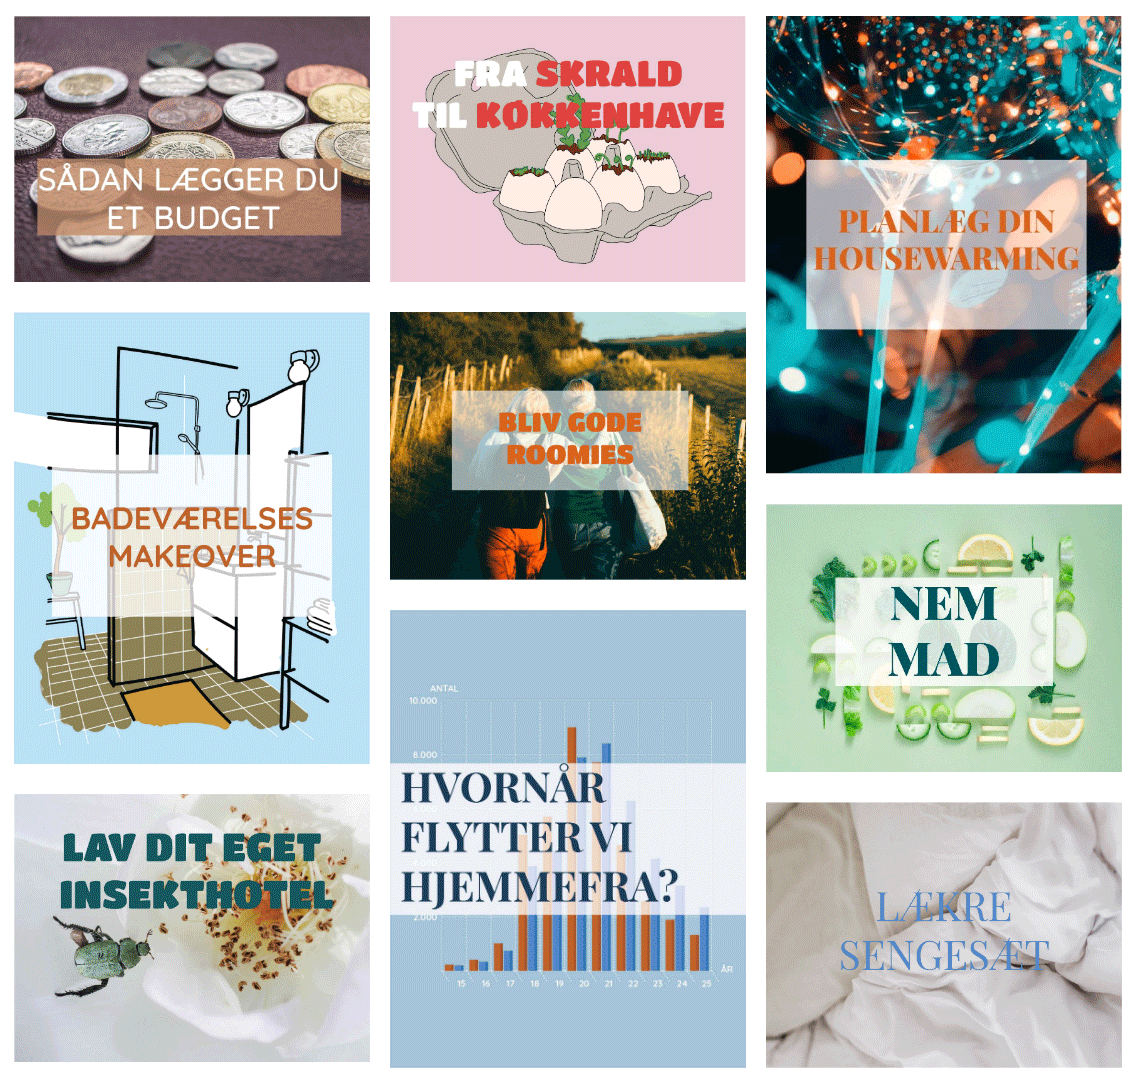
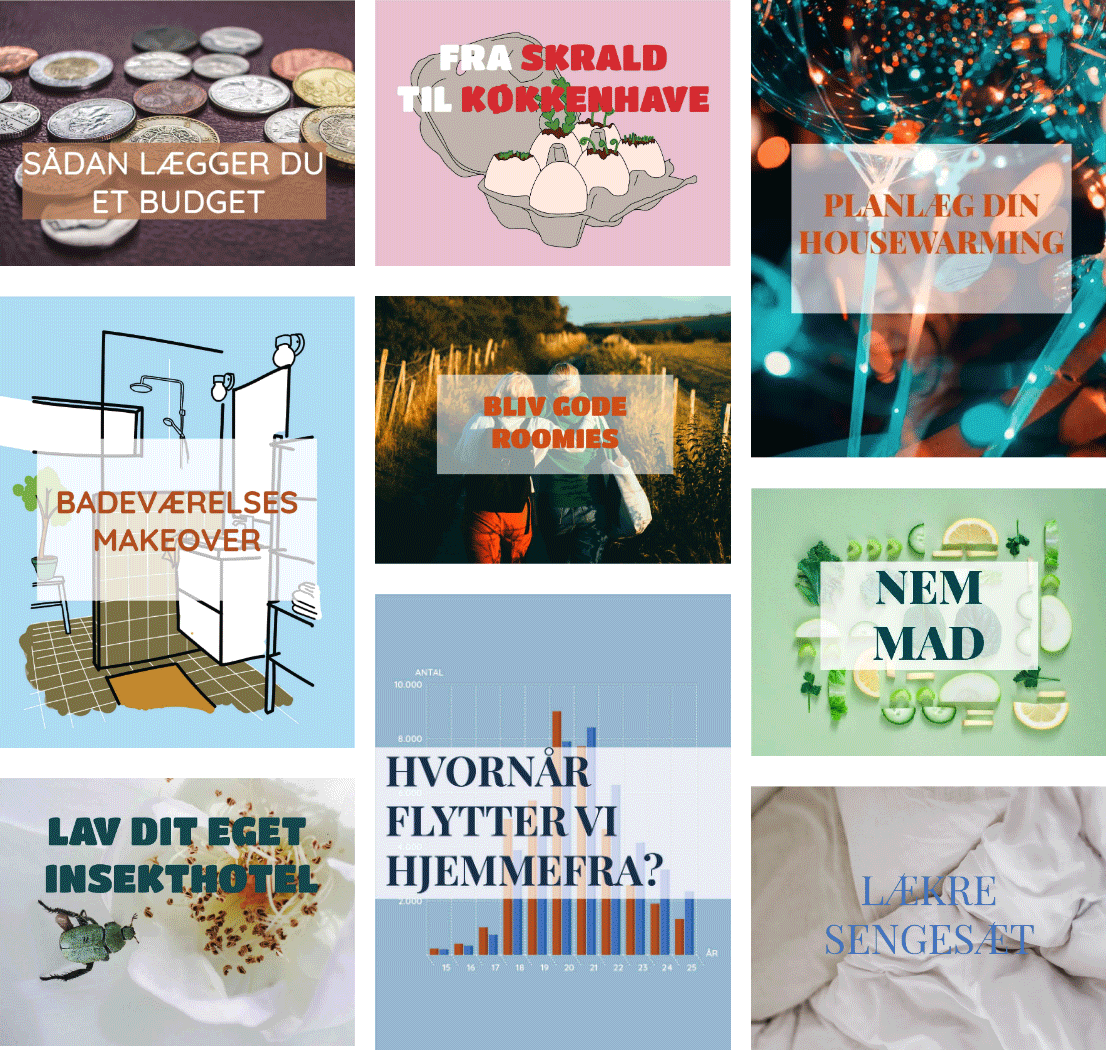
Oprettelse af infografik

diff --git a/pages/flyttekassen.html b/pages/flyttekassen.html
@@ -47,14 +47,8 @@
 			<h2 class="text-center skub">Flyttekassen</h2>
 			<img src="../images/flyttekassen/budget.png" class="skub" alt="hjemmeside">
 			<h4 class="skub">Læring</h4>
-			<p class="skub">Flyttekassen blev udviklet som et eksamensprojekt, i en gruppe, på 2. semester. Her kulminerede al min viden fra 1 og 2 semester. <br> Flyttekassen er en hjemmeside designet til at hjælpe unge mennesker med at flytte hjemmefra. Hjemmesiden indholder videoer, illustrationer, tekst og vejledning, som på bedst vis kan vise en nybegynder, hvordan kan alt fra at vasketøj til at indrette sit badeværelse på bedst vist. Nederst på siden kan man finde en fyldesgørende rapport, samt opgavebeskrivelsen. </p>
-			
-			<h4 class="skub">Design Thinking</h4>
-			<p class="skub">Et meget vigtigt led i vores proces var Design Thinking. Her blev brugerens behov og indsigt undersøgt og vi fik idégeneret en masse ideer og løsninger. Jeg har taget et udsnit fra vores rapport med.
-			</p> <br>
-			<p>
-			I The Stanford Model er empathy det første skridt. Indledningsvis undersøgte vi brugernes behov ved at lave et spørgeskema samt interviewe brugere inden for vores målgruppe. 63 personer svarede på vores spørgeskema i Google Forms, hvoraf 40 var kvinder og 23 var mænd. Størstedelen af de adspurgte var i alderen 21-25 år (52,4%) og 16-20 år (23,8%). Dette gav os indblik i vores mulige brugeres følelser, tanker, oplevelser, og hvad de sagde omkring det at flytte hjemmefra. 75% af de adspurgte ville gerne bruge en hjemmeside med tips og tricks til deres næste eller første flytning, mens de resterende 25% svarede “ved ikke”. Ud fra interviewene analyserede vi os frem til nøgleord og sætninger, som udgjorde vores empathy map, og som vi senere hen fandt insights og needs ud fra.
-			</p>
+			<p class="skub">Flyttekassen blev udviklet som et eksamensprojekt, i en gruppe, på 2. semester. Her kulminerede al min viden fra 1 og 2 semester. <br> Flyttekassen er en hjemmeside designet til at hjælpe unge mennesker med at flytte hjemmefra. Hjemmesiden indholder videoer, illustrationer, infografik, tekst og vejledning, som på bedst vis kan vise en nybegynder, hvordan kan alt fra at vasketøj til at indrette sit badeværelse på bedst vist. </p>
+			<img src="../images/flyttekassen/flyttekasse_illustration.png" alt="Illustration, humor, begravet">
 			<!--Knapper-->
 			<div class="knap skub2 d-none d-sm-block d-sm-none d-md-block">
 				<a href="http://juliesonne.dk/flyttekassen-version-one" target="_blank">Website</a>

diff --git a/index.html b/index.html
@@ -171,23 +171,23 @@
 				<p>Byg en app</p>
 			</div>
 		</div>
-		<!--<div class="col-11 col-md-6 col-lg-6 projektBilleder">
+		<div class="col-11 col-md-6 col-lg-6 projektBilleder">
   			<div class="content">
-    			<a href="pages/illustrator.html">
-      				<div class="content-overlay d-none d-sm-block d-sm-none d-md-block"></div>-->
-						<!--<img src="images/takeoff/takeoff.jpg" alt="Takeoff - billede fra video">-->
-      				<!--<div class="content-details fadeIn-top">
-        				<h3 class="d-none d-sm-block d-sm-none d-md-block">Illustrator</h3>
-        				<p class="d-none d-sm-block d-sm-none d-md-block">Små projekter fra Illustrator</p>
+    			<a href="pages/infografik.html">
+      				<div class="content-overlay d-none d-sm-block d-sm-none d-md-block"></div>
+						<img src="images/infografik/info2.gif" alt="infografik">
+      				<div class="content-details fadeIn-top">
+        				<h3 class="d-none d-sm-block d-sm-none d-md-block">Infografik</h3>
+        				<p class="d-none d-sm-block d-sm-none d-md-block">Lorem ipsum dolor sit amet.</p>
       				</div>
     			</a>
-  			</div>-->
+  			</div>
 			<!--Indhold small-->
-			<!--<div class="d-block d-sm-none d-none d-sm-block d-md-none skub">
-				<h4>Illustrator</h4>
-				<p>Små projekter fra Illustrator</p>
+			<div class="d-block d-sm-none d-none d-sm-block d-md-none skub">
+				<h4>Infografik</h4>
+				<p>Lorem ipsum dolor sit amet.</p>
 			</div>
-		</div>-->
+		</div>
 	</div>
 	<!--Container slut-->
 	</div>

diff --git a/pages/infografik.html b/pages/infografik.html
@@ -44,26 +44,13 @@
 	<!--Content-->
 	<div class="row justify-content-center">
 		<div class="col-md-7 col-lg-7 projektBilleder">
-			<h2 class="text-center skub">Illustrator</h2>
+			<h2 class="text-center skub">Infografik</h2>
+			<img src="../images/infografik/info2.png" alt="infografik - fødsler">
+			<p class="skub">Lorem ipsum dolor sit amet, consectetur adipisicing elit. Earum commodi eum, eligendi natus animi tempora impedit non atque, nesciunt odit aspernatur neque, repudiandae. Non nostrum, ex libero facere reprehenderit architecto mollitia! Maxime eligendi voluptatem, reprehenderit ab nemo, voluptates, fugit totam quia aperiam quisquam, ipsam optio rem est qui voluptas facere?</p>
+			<img src="../images/infografik/info3.png" alt="infografik - fødsler">
 		</div>
 	</div>
-	<div class="row justify-content-center">
-		<div class="col-md-6 col-lg-6 projektBilleder">
-			<img src="../images/portfolio/webicons.png" alt="">
-		</div>
-		<div class="col-md-6 col-lg-6 projektBilleder">
-			<img src="../images/portfolio/1x/baby.png" alt="">
-		</div>
-		<div class="col-md-6 col-lg-6 projektBilleder">
-			<img src="../images/portfolio/vildkattelogo.png" alt="">
-		</div>
-		<div class="col-md-6 col-lg-6 projektBilleder">
-			<img src="../images/portfolio/havfrue.jpg" alt="">
-		</div>
-		<div class="col-md-6 col-lg-6 projektBilleder">
-			<img src="../images/portfolio/weirdlady.jpg" alt="">
-		</div>
-	</div>
+
 	<!--Breadcrumbs-->
 	<div class="row">
 		<div class="col-5 text-left skub">

diff --git a/pages/boligplus.html b/pages/boligplus.html
@@ -63,8 +63,8 @@
 			<div class="knap skub2 d-none d-sm-block d-sm-none d-md-block">
 				<a href="https://xd.adobe.com/view/4d335cce-2670-4072-5664-9bcb91b552cb-3b02/?fullscreen" target="_blank">Originale løsning</a>
 				<a href="https://xd.adobe.com/view/9de193de-7640-4adb-59a9-ef1837aec14e-ebd0/?fullscreen" target="_blank">Forbedret løsning</a>
-				<a href="http://juliesonne.dk/pdf/bygapp_juliesonne.pdf" target="_blank">Rapport</a>
-				<a href="http://juliesonne.dk/assignments/flowthreeopgavebeskrivelse.pdf" target="_blank">Opgave</a>
+				<a href="https://adobe.ly/2MeFSL6" target="_blank">Rapport</a>
+				<a href="https://adobe.ly/2TqjkrF" target="_blank">Opgave</a>
 			</div>
 			<!--Indhold på small-->
 			<div class="knap skub2 d-block d-sm-none d-none d-sm-block d-md-none">
@@ -72,8 +72,8 @@
 				<a href="https://xd.adobe.com/view/9de193de-7640-4adb-59a9-ef1837aec14e-ebd0/?fullscreen" target="_blank">Forbedret løsning</a>
 			</div>
 			<div class="knap skubknap d-block d-sm-none d-none d-sm-block d-md-none">
-					<a href="http://juliesonne.dk/pdf/bygapp_juliesonne.pdf" target="_blank">Rapport</a>
-					<a href="http://juliesonne.dk/assignments/flowthreeopgavebeskrivelse.pdf" target="_blank">Opgave</a>
+					<a href="https://adobe.ly/2MeFSL6" target="_blank">Rapport</a>
+					<a href="https://adobe.ly/2TqjkrF" target="_blank">Opgave</a>
 			</div>
 		</div>
 	</div>

diff --git a/pages/sweetbot.html b/pages/sweetbot.html
@@ -63,8 +63,8 @@
 			<div class="knap skub2 d-none d-sm-block d-sm-none d-md-block">
 				<a href="http://juliesonne.dk/sweetbot-version-one/index.html" target="_blank">Originale løsning</a>
 				<a href="http://juliesonne.dk/sweetbot-version-two/index.html" target="_blank">Forbedret løsning</a>
-				<a href="http://juliesonne.dk/pdf/mula_seven_sweetbot.pdf" target="_blank">Rapport</a>
-				<a href="http://juliesonne.dk/assignments/flowfouropgavebeskrivelse.pdf" target="_blank">Opgave</a>
+				<a href="https://adobe.ly/2MeEXKE" target="_blank">Rapport</a>
+				<a href="https://adobe.ly/2Z0NZwX" target="_blank">Opgave</a>
 			</div>
 			<!--Indhold på small-->
 			<div class="knap skub2 d-block d-sm-none d-none d-sm-block d-md-none">
@@ -72,8 +72,8 @@
 				<a href="http://juliesonne.dk/sweetbot-version-two/index.html" target="_blank">Forbedret løsning</a>
 			</div>
 			<div class="knap skubknap d-block d-sm-none d-none d-sm-block d-md-none">
-					<a href="http://juliesonne.dk/pdf/mula_seven_sweetbot.pdf" target="_blank">Rapport</a>
-					<a href="http://juliesonne.dk/assignments/flowfouropgavebeskrivelse.pdf" target="_blank">Opgave</a>
+					<a href="https://adobe.ly/2MeEXKE" target="_blank">Rapport</a>
+					<a href="https://adobe.ly/2Z0NZwX" target="_blank">Opgave</a>
 			</div>
 		</div>
 	</div>
